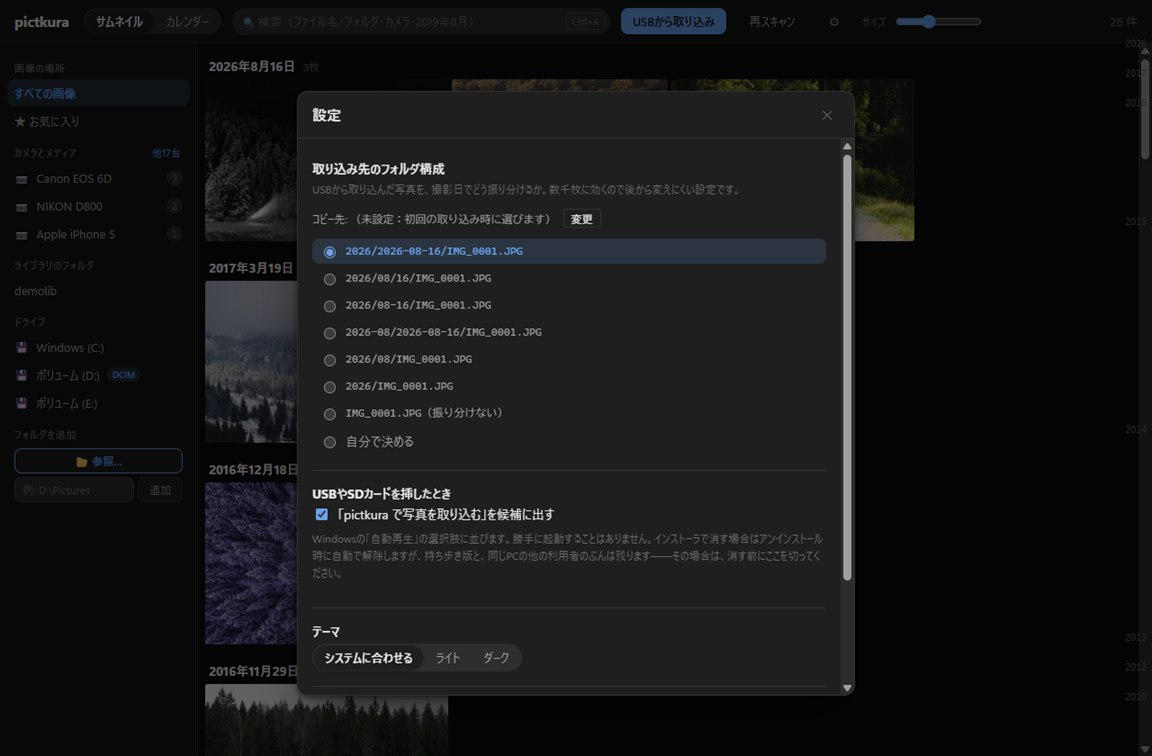
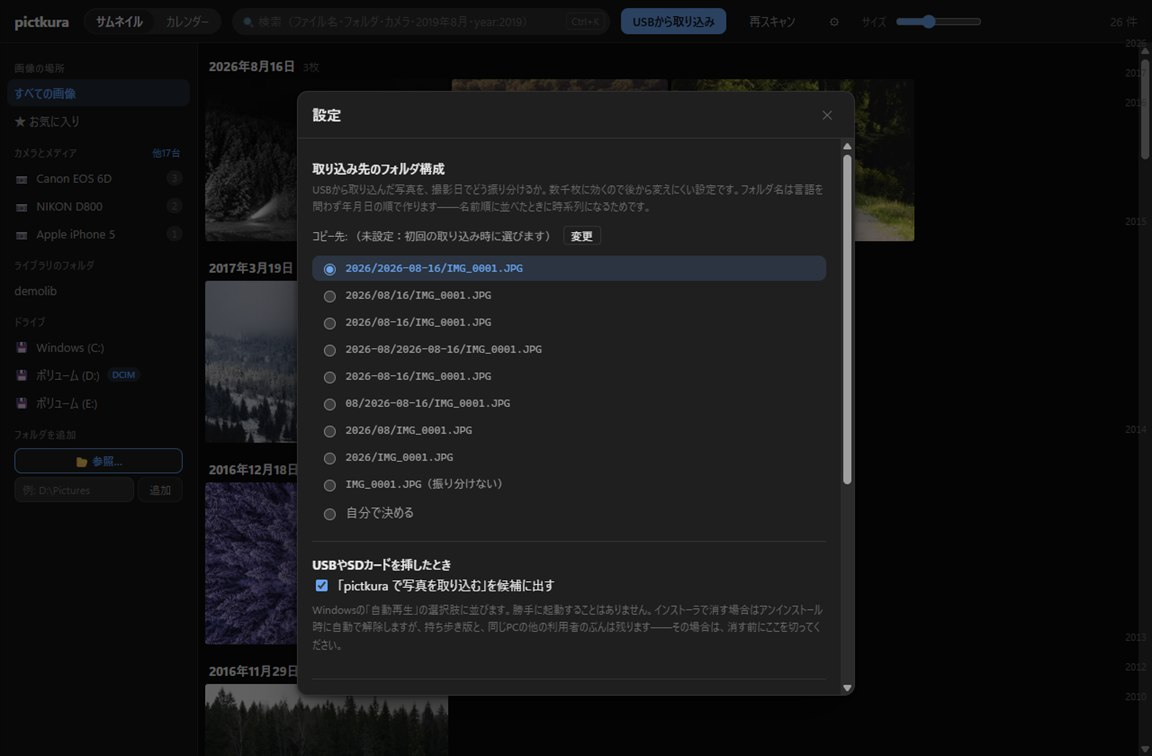
取り込み先のプリセットを2つ足し、year: で年を絞れるようにする
**プリセット2つ**（利用者の要望）。年の階層を自分で作っている人向け。

- `2026-08-16/` — **年の階層を作らない**。コピー先をその年のフォルダにしておけば、
  下に日付のフォルダだけが増える
- `08/2026-08-16/` — 月の下に日付

**`year:2019`**（`年:2019` も可）。**裸の `2019` を日付として扱わない**方針は
変えていない——ファイル名の検索語と区別が付かないため。ただしこの方針だと、
日本語の「年」に当たる単位が無い言語では**検索ボックスから年で絞る手段が無かった**。
`camera:` `folder:` と同じ形で、言語に依らない入口を用意した。年として読めない値
（`year:abc`）でも指定として食べる——検索語に落とすと「絞ったつもりが全然違うものが
出る」ことになる。

**フォルダ名が年月日固定である理由を書いた**（設定の説明文・取扱説明書、日英とも）。
表示上の日付は言語に合わせて変わるのに、フォルダ名だけ年月日なのは画面からは
分からない。**名前順に並べたときに時系列になるため**で、これは写真管理ソフトの通例
（Immich の既定は `Year/Year-Month-Day` で pictkura の第1プリセットと同じ、
Lightroom Classic の日付フォルダも全て年が先頭）。

スクリーンショットは `grid` / `import` / `settings` を撮り直した。プリセットが
2つ増え、検索欄の文言にも `year:2019` が入ったため。

Changed region(s): [[0.25, 0.2434, 0.7188, 0.8823], [0.5938, 0.6389, 0.75, 0.7606], [0.6562, 0.2434, 0.7188, 0.2738]]

diff --git a/docs/manual.html b/docs/manual.html
@@ -194,7 +194,7 @@ Windows 11 の右クリックメニューでは <strong>「その他のオプシ
 
 <p>
 ⚙（設定）→「取り込み先のフォルダ構成」。写真の置き場所は後から変えにくいので、
-最初に決めておくのがおすすめです。よく使う7種類から選べます。
+最初に決めておくのがおすすめです。よく使う9種類から選べます。
 </p>
 
 <figure>
@@ -217,6 +217,22 @@ Windows 11 の右クリックメニューでは <strong>「その他のオプシ
 たとえば <code>{year}nen/{month}gatsu-{day}nichi</code> と書くと
 <code>2026nen/08gatsu-13nichi/</code> になります。
 </p>
+
+<p>
+<strong>年の階層を自分で作っている人</strong>は、コピー先をその年のフォルダにしたうえで
+<code>2026-08-16/</code>（年の階層を作らない）や <code>08/2026-08-16/</code> を選ぶと、
+下に日付のフォルダだけが増えていきます。
+</p>
+
+<div class="note">
+  <p>
+    <strong>フォルダ名は言語を問わず年月日の順で作ります。</strong>
+    名前順に並べたときに時系列になるためで、写真管理ソフトではこれが通例です
+    （Immich の既定も <code>年/年-月-日</code>、Lightroom Classic の日付フォルダも
+    すべて年が先頭です）。表示上の日付は言語に合わせて変わりますが、
+    フォルダ名は並び順を優先しています。
+  </p>
+</div>
 
 <div class="note">
   <p>
@@ -248,7 +264,8 @@ Windows 11 の右クリックメニューでは <strong>「その他のオプシ
   <tr><td><code>沖縄</code></td><td>ファイル名・フォルダ名・カメラ名の部分一致。日本語は中間一致なので「旅行」で「沖縄旅行」が引けます</td></tr>
   <tr><td><code>camera:α7</code></td><td>カメラで絞り込む（左ペインの「カメラとメディア」と同じ）</td></tr>
   <tr><td><code>folder:旅行</code></td><td>フォルダ名で絞り込む</td></tr>
-  <tr><td><code>2019年</code> <code>2019-08</code> <code>2019年8月11日</code></td><td>撮影日で絞り込む</td></tr>
+  <tr><td><code>2019年</code> <code>2019-08</code> <code>2019年8月11日</code></td><td>撮影日で絞り込む。<strong>裸の <code>2019</code> は日付として扱いません</strong>——ファイル名の検索語と区別が付かないためです</td></tr>
+  <tr><td><code>year:2019</code> <code>年:2019</code></td><td>その年だけに絞り込む（<code>2019年</code> と同じ）</td></tr>
   <tr><td><code>★</code></td><td>お気に入りだけ</td></tr>
 </table>
 </div>

diff --git a/ui/src/i18n.ts b/ui/src/i18n.ts
@@ -19,7 +19,7 @@ const ja = {
   appName: "pictkura",
   viewThumbnails: "サムネイル",
   viewCalendar: "カレンダー",
-  searchPlaceholder: "検索（ファイル名・フォルダ・カメラ・2019年8月）",
+  searchPlaceholder: "検索（ファイル名・フォルダ・カメラ・2019年8月・year:2019）",
   searchClear: "検索を消す (Esc)",
   commandPalette: "コマンドパレット",
   importFromUsb: "USBから取り込み",
@@ -171,7 +171,7 @@ const ja = {
   settingsTitle: "設定",
   settingsImportStructure: "取り込み先のフォルダ構成",
   settingsImportStructureNote:
-    "USBから取り込んだ写真を、撮影日でどう振り分けるか。数千枚に効くので後から変えにくい設定です。",
+    "USBから取り込んだ写真を、撮影日でどう振り分けるか。数千枚に効くので後から変えにくい設定です。フォルダ名は言語を問わず年月日の順で作ります——名前順に並べたときに時系列になるためです。",
   settingsDestination: "コピー先",
   settingsDestinationUnset: "（未設定：初回の取り込み時に選びます）",
   settingsFlatExample: "IMG_0001.JPG（振り分けない）",
@@ -221,7 +221,7 @@ const en: Dict = {
   appName: "pictkura",
   viewThumbnails: "Photos",
   viewCalendar: "Calendar",
-  searchPlaceholder: "Search files, folders, cameras, or 2019-08",
+  searchPlaceholder: "Search files, folders, cameras, 2019-08, or year:2019",
   searchClear: "Clear search (Esc)",
   commandPalette: "Command palette",
   importFromUsb: "Import from USB",
@@ -371,7 +371,7 @@ const en: Dict = {
   settingsTitle: "Settings",
   settingsImportStructure: "Import folder structure",
   settingsImportStructureNote:
-    "How imported photos are filed by capture date. This affects thousands of files, so it is hard to change later.",
+    "How imported photos are filed by capture date. This affects thousands of files, so it is hard to change later. Folder names are built year-first in every language, so that sorting by name sorts by time.",
   settingsDestination: "Destination",
   settingsDestinationUnset: "(not set — you'll choose it on the first import)",
   settingsFlatExample: "IMG_0001.JPG (no subfolders)",

diff --git a/crates/pictkura-core/src/search.rs b/crates/pictkura-core/src/search.rs
@@ -257,6 +257,22 @@ fn tokenize(input: &str) -> Vec<String> {
 /// **裸の4桁数字（`2019`）は日付として扱わない**。ファイル名の検索語と
 /// 区別できないため、日付で絞りたいときは `2019年` のように単位を付ける
 /// （UIのコマンドパレットが日付候補を出して補う）。
+/// `year:` の値を年の範囲（その年の元日〜大晦日）にする。
+///
+/// 受けるのは**4桁の数字だけ**。`parse_date_range` と違って前後関係が
+/// はっきりしている（`year:` と明示されている）ので、単位も区切りも要らない。
+fn parse_year(value: &str) -> Option<(i64, i64)> {
+    let value = value.trim();
+    if value.len() != 4 || !value.chars().all(|c| c.is_ascii_digit()) {
+        return None;
+    }
+    let year: i64 = value.parse().ok()?;
+    if !(1000..=9999).contains(&year) {
+        return None;
+    }
+    Some((year * 10000 + 101, year * 10000 + 1231))
+}
+
 fn parse_date_range(token: &str) -> Option<(i64, i64)> {
     let mut nums: Vec<i64> = Vec::new();
     let mut cur = String::new();
@@ -313,6 +329,7 @@ fn parse_date_range(token: &str) -> Option<(i64, i64)> {
 /// 対応する指定:
 /// - `camera:α7` / `cam:α7` / `カメラ:α7` — カメラ名で絞る
 /// - `folder:沖縄` / `dir:沖縄` / `フォルダ:沖縄` — フォルダ名で絞る
+/// - `year:2019` / `年:2019` — その年だけに絞る（`2019年` と同じ範囲）
 /// - `2019年` `2019-08` `2019年8月11日` — 撮影日で絞る
 /// - `★` / `fav:` — お気に入りのみ
 /// - それ以外 — 自由語（ファイル名・フォルダ名・カメラ名が対象）
@@ -336,6 +353,20 @@ pub fn parse_query(input: &str, favorites_only: bool) -> SearchQuery {
                     if !value.is_empty() {
                         q.folder.push(value.to_string());
                     }
+                    true
+                }
+                // **年だけで絞る口**。裸の `2019` を日付にしない方針（ファイル名の
+                // 検索語と区別できない）は変えないが、日本語の「年」に当たる単位が
+                // 無い言語では、そのままだと**検索ボックスから年で絞る手段が無い**。
+                // `camera:` `folder:` と同じ形で、言語に依らない入口を用意する。
+                "year" | "年" => {
+                    if let Some((from, to)) = parse_year(value) {
+                        q.day_from = Some(q.day_from.map_or(from, |v: i64| v.max(from)));
+                        q.day_to = Some(q.day_to.map_or(to, |v: i64| v.min(to)));
+                    }
+                    // 値が年として読めなくても、`year:` は指定として食べる。
+                    // 検索語に落とすと `year:abc` がファイル名の検索になって、
+                    // 「絞ったつもりが全然違うものが出る」ことになる
                     true
                 }
                 "fav" | "favorite" | "★" => {
@@ -418,6 +449,32 @@ mod tests {
     fn 引用符はエスケープされる() {
         let m = term_to_match("a\"b").unwrap();
         assert_eq!(m, "\"a\" \"b\"*");
+    }
+
+    #[test]
+    fn yearは年だけで絞れる() {
+        // `2019年` と同じ範囲になる
+        let q = parse_query("year:2019", false);
+        assert_eq!(q.day_from, Some(20190101));
+        assert_eq!(q.day_to, Some(20191231));
+        assert!(q.terms.is_empty(), "検索語には落ちない");
+        // 日本語の単位でも同じ
+        let q = parse_query("年:2019", false);
+        assert_eq!(q.day_from, Some(20190101));
+        // 他の条件と併用できる（範囲は狭い方に寄る）
+        let q = parse_query("沖縄 year:2019 2019年8月", false);
+        assert_eq!(q.terms, vec!["沖縄"]);
+        assert_eq!(q.day_from, Some(20190801));
+        assert_eq!(q.day_to, Some(20190831));
+        // **年として読めない値でも検索語には落とさない**。落とすと
+        // 「絞ったつもりが全然違うものが出る」ことになる
+        let q = parse_query("year:abc", false);
+        assert!(q.terms.is_empty());
+        assert_eq!(q.day_from, None);
+        for bad in ["19", "20190", "12x4", ""] {
+            assert_eq!(parse_year(bad), None, "年として読めない: {bad}");
+        }
+        assert_eq!(parse_year("2019"), Some((20190101, 20191231)));
     }
 
     #[test]

diff --git a/crates/pictkura-core/src/import.rs b/crates/pictkura-core/src/import.rs
@@ -88,6 +88,8 @@ pub const FOLDER_PATTERN_PRESETS: &[&str] = &[
     "{year}/{month}/{day}",                // 2026/08/12
     "{year}/{month}-{day}",                // 2026/08-12
     "{year}-{month}/{year}-{month}-{day}", // 2026-08/2026-08-12
+    "{year}-{month}-{day}",                // 2026-08-12（年の階層は作らない）
+    "{month}/{year}-{month}-{day}",        // 08/2026-08-12
     "{year}/{month}",                      // 2026/08（月単位）
     "{year}",                              // 2026（年単位）
     "",                                    // 振り分けない（コピー先直下）
@@ -760,9 +762,13 @@ mod tests {
         assert_eq!(rendered[1], "2026/08/12");
         assert_eq!(rendered[2], "2026/08-12");
         assert_eq!(rendered[3], "2026-08/2026-08-12");
-        assert_eq!(rendered[4], "2026/08");
-        assert_eq!(rendered[5], "2026");
-        assert_eq!(rendered[6], "", "空パターンはコピー先直下");
+        // 年の階層を自分で作る人向け（コピー先を年フォルダにして、この下に日付だけ）
+        assert_eq!(rendered[4], "2026-08-12");
+        assert_eq!(rendered[5], "08/2026-08-12");
+        assert_eq!(rendered[6], "2026/08");
+        assert_eq!(rendered[7], "2026");
+        assert_eq!(rendered[8], "", "空パターンはコピー先直下");
+        assert_eq!(rendered.len(), FOLDER_PATTERN_PRESETS.len());
         for r in &rendered {
             assert!(!Path::new(r).is_absolute(), "絶対パスにならない: {r}");
         }
